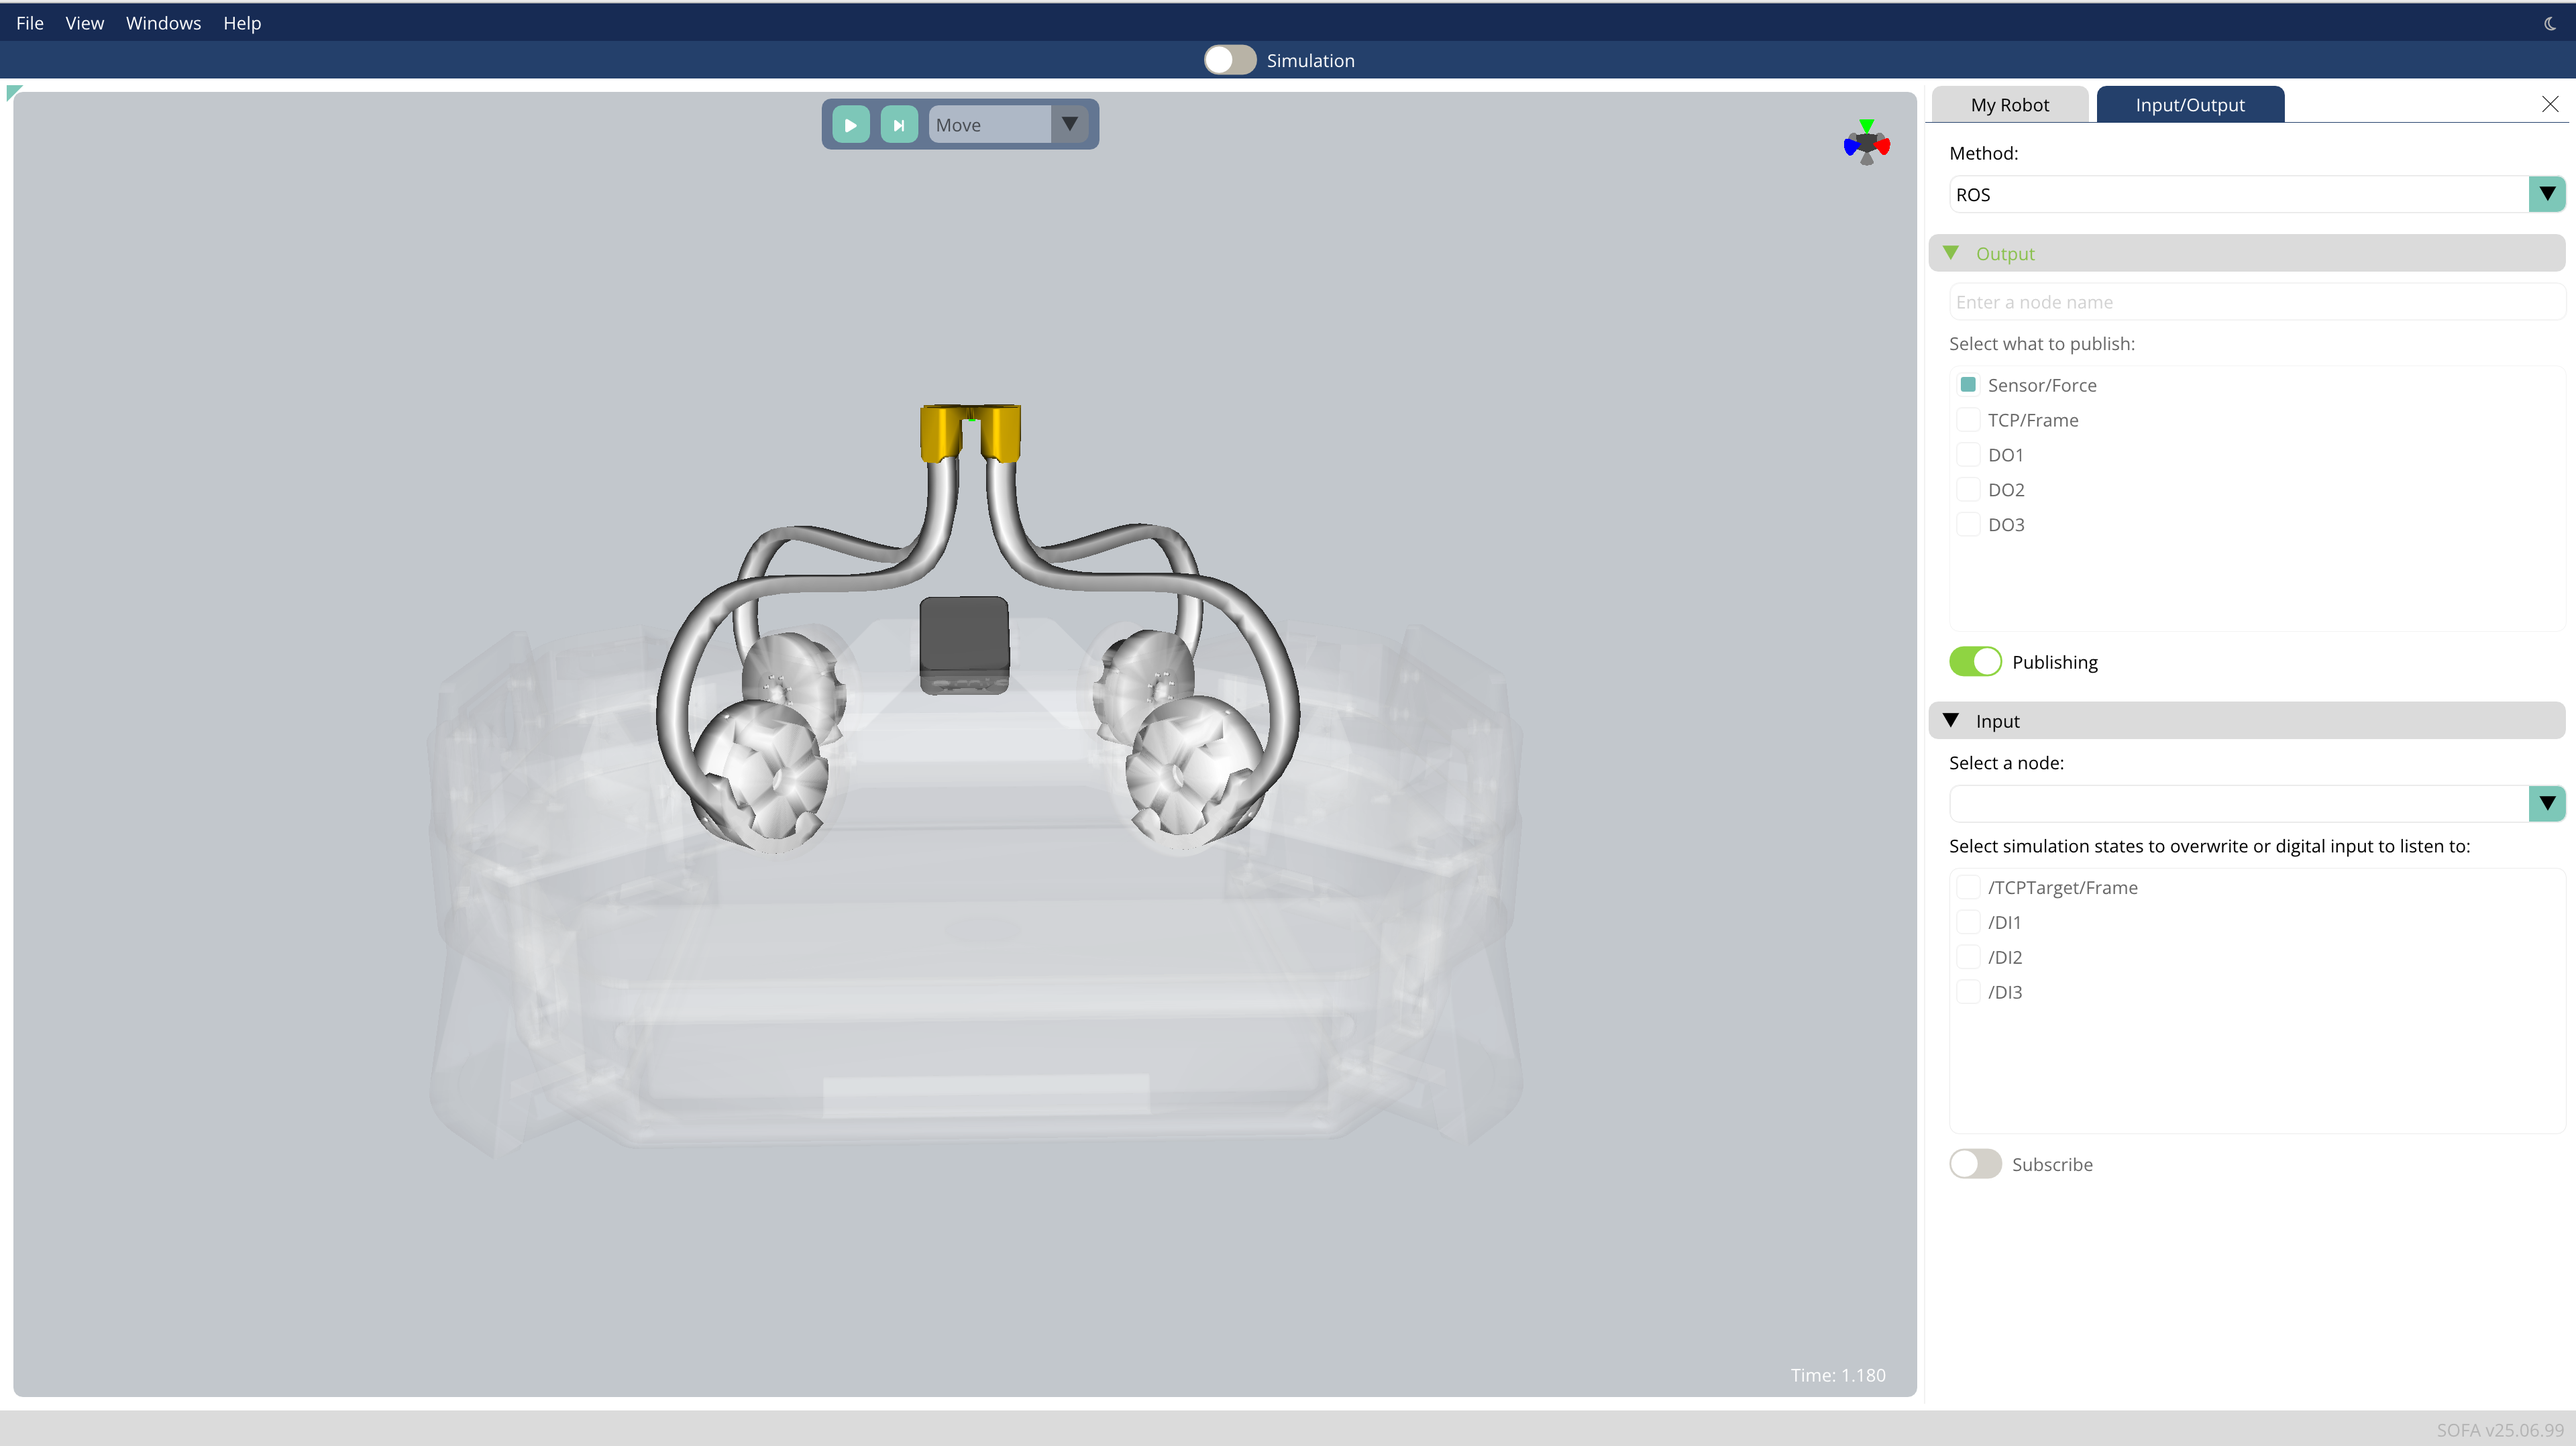
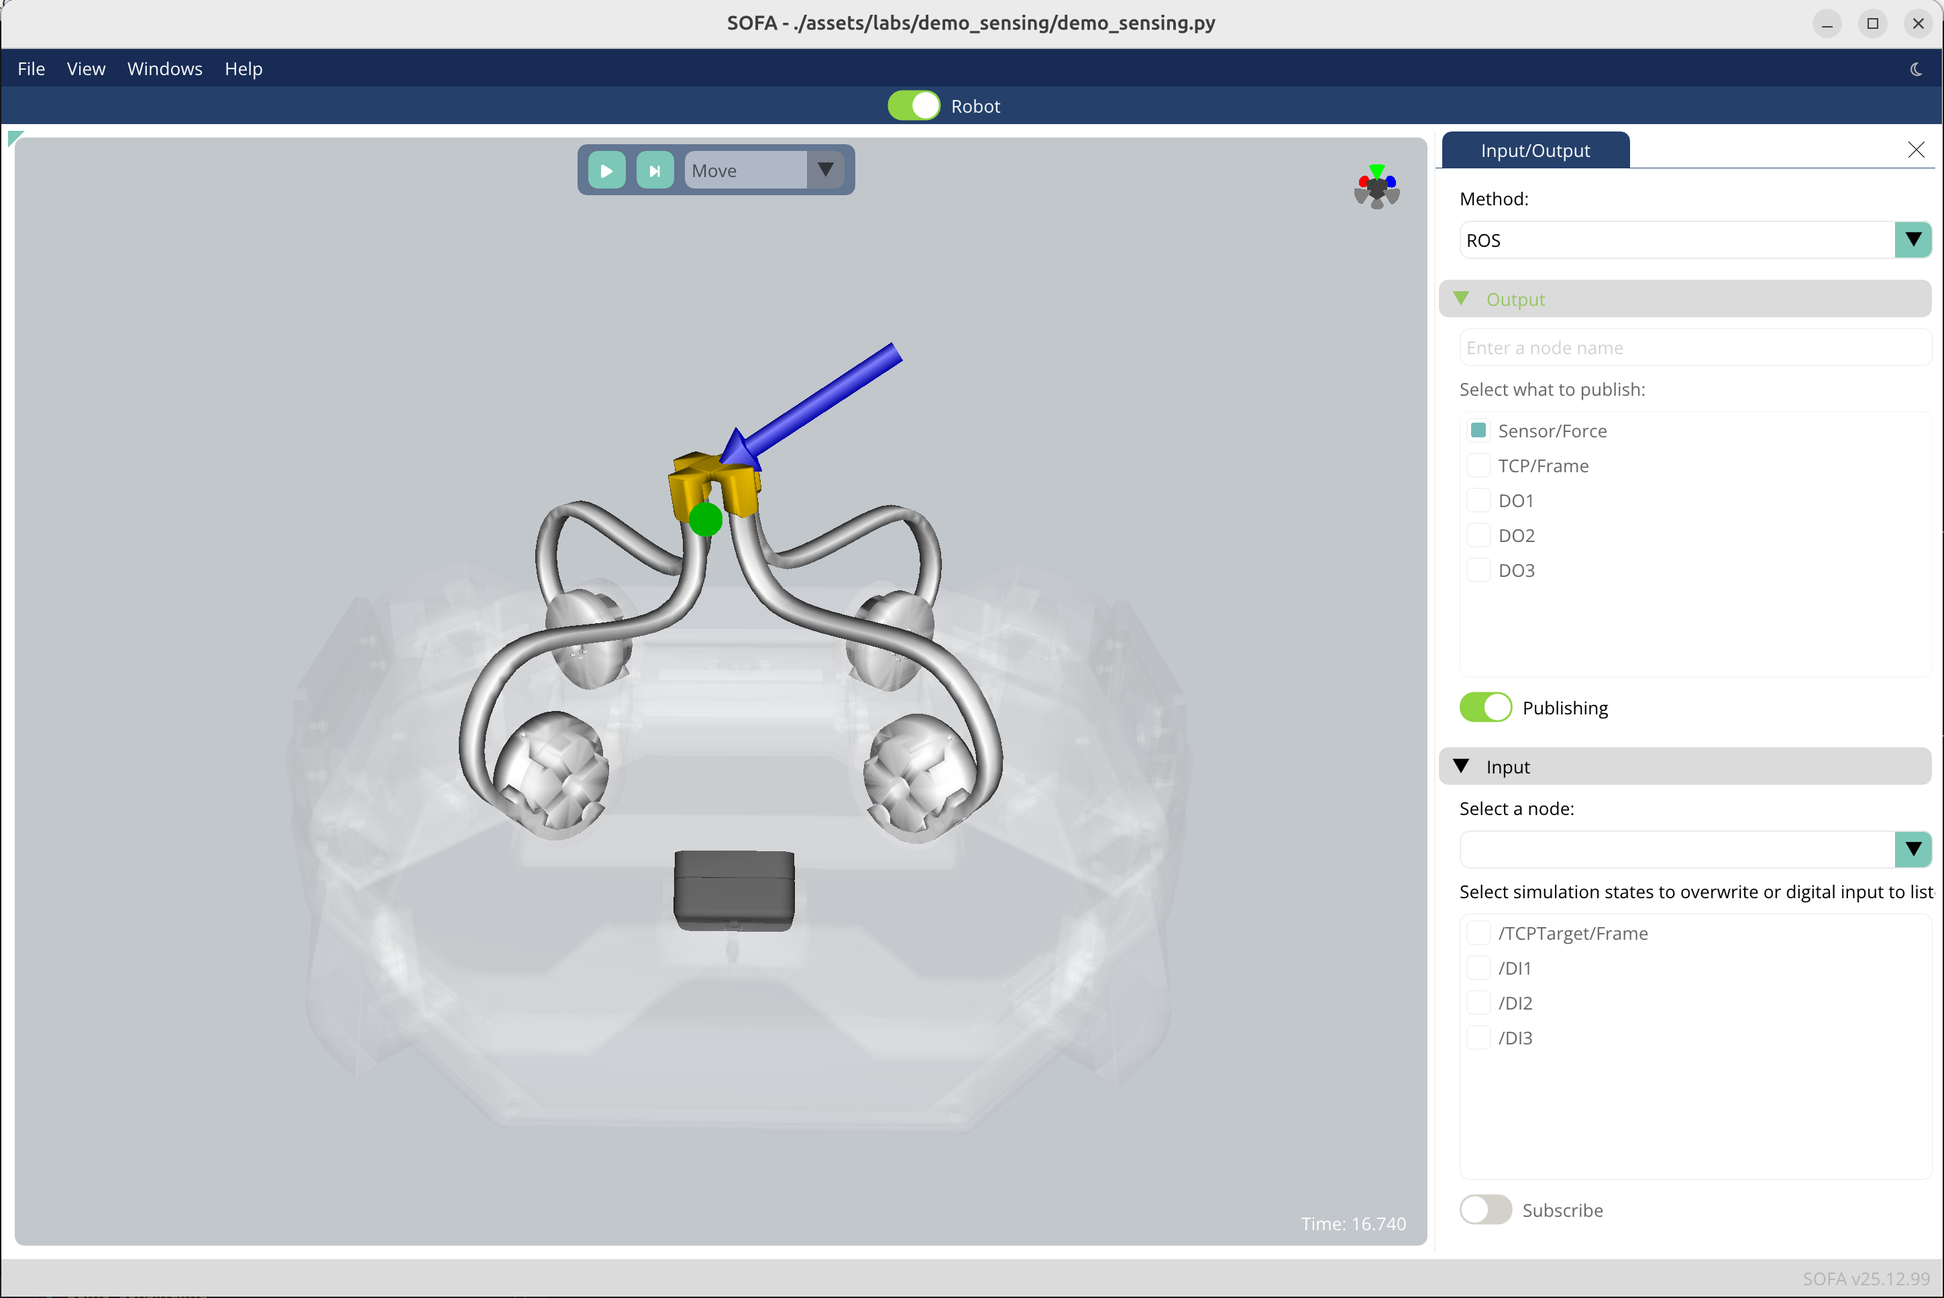
improves presentation of the demo

diff --git a/demo_sensing.md b/demo_sensing.md
@@ -10,13 +10,23 @@ In this demo, we will explore the sensing capabilities of Emio.
 
 ## Sensing
 
+|![Simulation of the force estimation](assets/labs/demo_sensing/img/emio-sensing.png){width=80%}|
+|:--------------------------------------------------------------------:|
+|**Simulation of the force estimation.**                               |
+
+### Force Estimation Demo
+
 Emio can be use as a sensor. In this demo we fix the motor to a desired configuration. We chose a configuration that let us use Emio as a joystick. 
 On the real device, we track the position of the effector using a marker and the depth camera.
 The problem we want to solve is to retrieve the force applied by the user on the effector of Emio. To achieve this, we solve the inverse problem in simulation. 
 
-We can then use Emio as a joystick and ROS2 to control a turtle in the [TurtleSim](https://docs.ros.org/en/jazzy/Tutorials/Beginner-CLI-Tools/Introducing-Turtlesim/Introducing-Turtlesim.html) simulation environment.
+Run the simulation by clicking the button below, then press the play button to start the simulation (top middle of the 3D view). Set up the robot Emio like in the simulation, [connect the robot to your computer](https://docs-support.compliance-robotics.com/docs/next/Users/Emio/getting-started-with-emio/#connecting-emio-to-your-computer) and then [connect the simulation](https://docs-support.compliance-robotics.com/docs/next/Users/SOFARobotics/GUI-user-manual/#controlling-the-real-robot). You can now play with the demo. Move the effector of the real robot and observe the estimation of the force in the simulation. 
 
-### Turtle sim demo
+#runsofa-button("assets/labs/demo_sensing/demo_sensing.py")
+
+### Turtle Sim Demo
+
+We can use Emio as a joystick and ROS2 to control a turtle in the [TurtleSim](https://docs.ros.org/en/jazzy/Tutorials/Beginner-CLI-Tools/Introducing-Turtlesim/Introducing-Turtlesim.html) simulation environment.
 
 In a terminal:
 ```command
@@ -32,8 +42,5 @@ python gatewayTurtleNode.py
 ```
 
 On the GUI, select the window __Windows>Input/Output__. From this window __Input/Output__, in the output section, select the topic __Sensor/Force__ and click toggle the __Publish__ button.
-Run the simulation by clicking the play button (top middle of the 3D view). You can now play with the demo. 
-
-#runsofa-button("assets/labs/demo_sensing/demo_sensing.py")
 
 ::::
